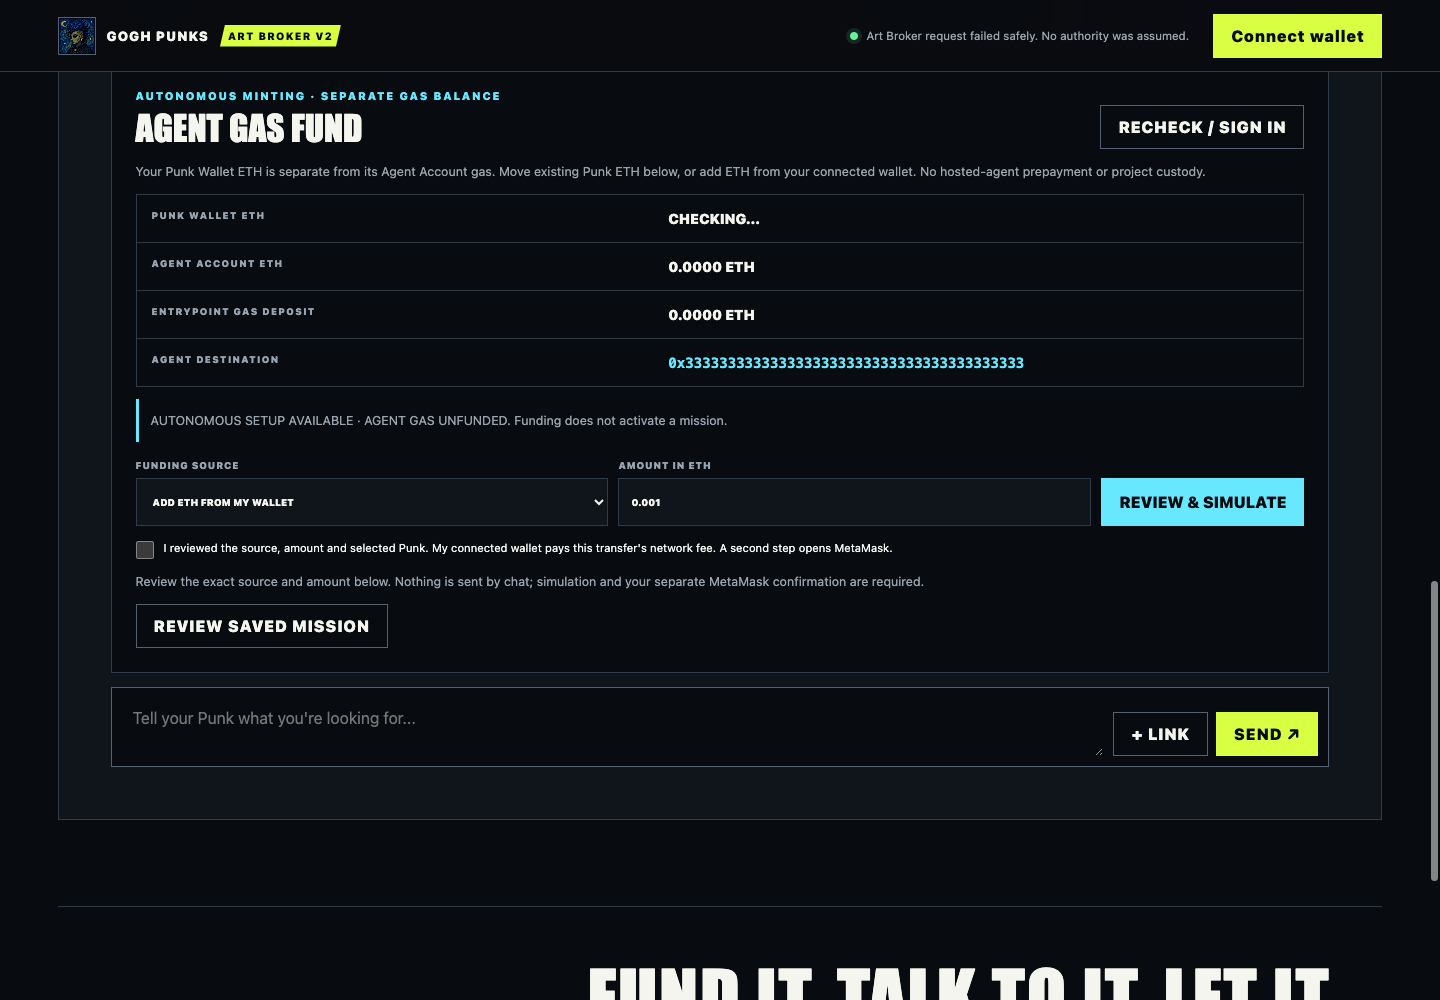
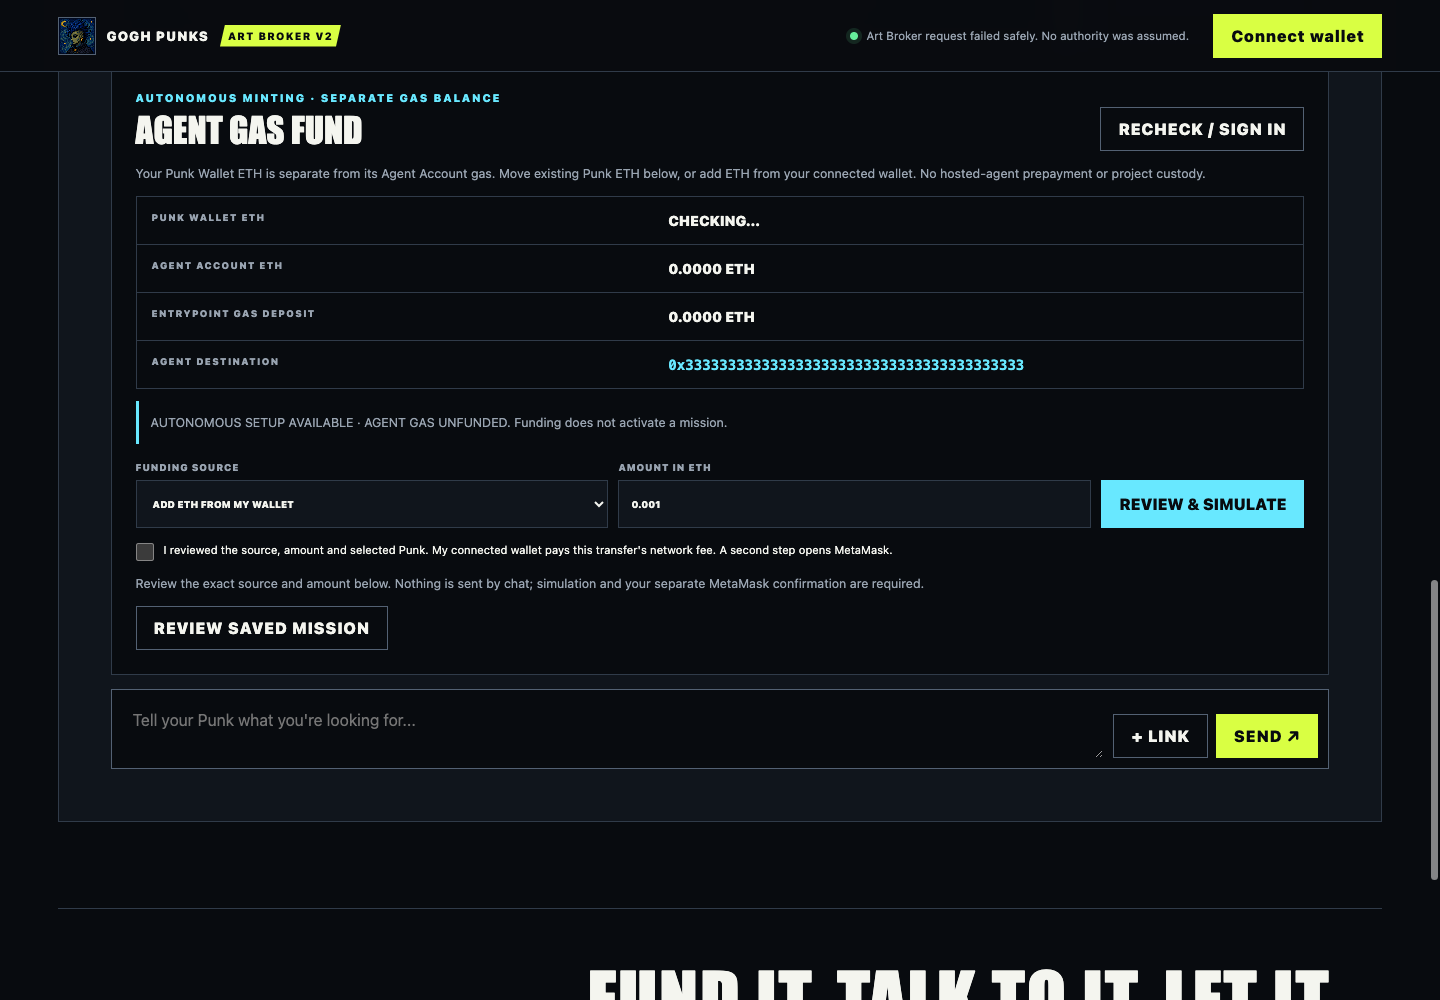
Stop disconnected broker and wallet selection feedback loop

diff --git a/site/wallet.js b/site/wallet.js
@@ -312,9 +312,12 @@ export function setupReadOnlyWallet({ windowObject, documentObject } = {}) {
     const address = normalizeWalletAddress(detail.owner);
     const tokenId = typeof detail.tokenId === "string" && /^(0|[1-9]\d*)$/.test(detail.tokenId)
       ? detail.tokenId : null;
-    state.owner = address && tokenId
+    const nextOwner = address && tokenId
       ? { address, tokenId, source: "selection" }
       : null;
+    if (state.owner?.address === nextOwner?.address && state.owner?.tokenId === nextOwner?.tokenId
+      && state.owner?.source === nextOwner?.source) return;
+    state.owner = nextOwner;
     render();
   }
 
@@ -716,7 +719,12 @@ export async function setupReownWallet({ windowObject, documentObject, fetchFunc
     const address = normalizeWalletAddress(detail.address ?? detail.owner);
     const tokenId = typeof detail.tokenId === "string" && /^(0|[1-9]\d*)$/.test(detail.tokenId)
       ? detail.tokenId : null;
-    state.owner = address && tokenId ? { address, tokenId, source: "selection" } : null;
+    const nextOwner = address && tokenId ? { address, tokenId, source: "selection" } : null;
+    // The broker also refreshes its roster on wallet-state events. Echoing an
+    // unchanged selection (especially null) would recursively refresh both UIs.
+    if (state.owner?.address === nextOwner?.address && state.owner?.tokenId === nextOwner?.tokenId
+      && state.owner?.source === nextOwner?.source) return;
+    state.owner = nextOwner;
     render();
   }
 

diff --git a/docs/V2_REVIEW_CANDIDATE_2026-09-11.md b/docs/V2_REVIEW_CANDIDATE_2026-09-11.md
@@ -35,6 +35,14 @@ The full-page test now explicitly exercises:
 5. Desktop/mobile rendering, original-NFT purchase/sale refresh, and clearing stale
    seller chat, gas confirmation and Forge responses.
 
+The final hosted check caught an additional preview startup regression. An empty
+roster notified the wallet of a null selection; the wallet re-emitted its unchanged
+state, causing the roster to notify it again. This could freeze the disconnected
+page before Talk loaded. Both wallet adapters now ignore unchanged selections while
+still publishing actual owner/token changes and selection clearing. Browser coverage
+now first loads the actual wallet component on a fresh visit, before the disposable
+owner/RPC scenarios. The earlier fixture-only wallet test did not exercise this path.
+
 ## Training implementation added behind the release gate
 
 - Owner-authenticated review, one-shot claim, unsent cancellation and transaction-hash
@@ -84,7 +92,8 @@ Evidence from this continuation is under `docs/review/2026-09-11/completion/`.
   fresh reviewed calldata accepted with the unused nonce. Two reviewed fixture
   transactions and one fixture transfer; zero public-chain transactions.
 - Full broker browser: chat/mint/gas/mission review and ownership changes on desktop
-  and mobile. Separate enabled-panel fixture exercises exact wallet review, pending
+  and mobile, plus actual disconnected wallet startup without an event loop, SDK
+  load or wallet prompt. Separate enabled-panel fixture exercises exact wallet review, pending
   recovery, component remount and wallet rejection without another send. Its two
   wallet calls are simulated EIP-1193 calls, not chain transactions.
 - Equipped research: unreleased/authentication/owner/package/tool gates, bounded

diff --git a/docs/V2_RELEASE_TARGET_2026-09-16.md b/docs/V2_RELEASE_TARGET_2026-09-16.md
@@ -68,6 +68,12 @@ withhold unverified data and capabilities.
 
 ## Current evidence
 
+The final September 11 hosted check also exposed a disconnected-startup event loop
+between the empty roster and wallet selection listeners. Unchanged selections are
+now ignored by both wallet adapters; real selection changes still publish. The full
+browser check now includes the actual wallet module on a first visit, followed by
+the owner/RPC fixtures. See the continuation evidence below for the final results.
+
 - 63 focused Solidity tests passed, with 1,024 fuzz runs where applicable.
 - The merged full-page browser check passed desktop/mobile layout, same-wallet
   purchase/sale refresh, stale private-review and gas-confirmation clearing, Forge
